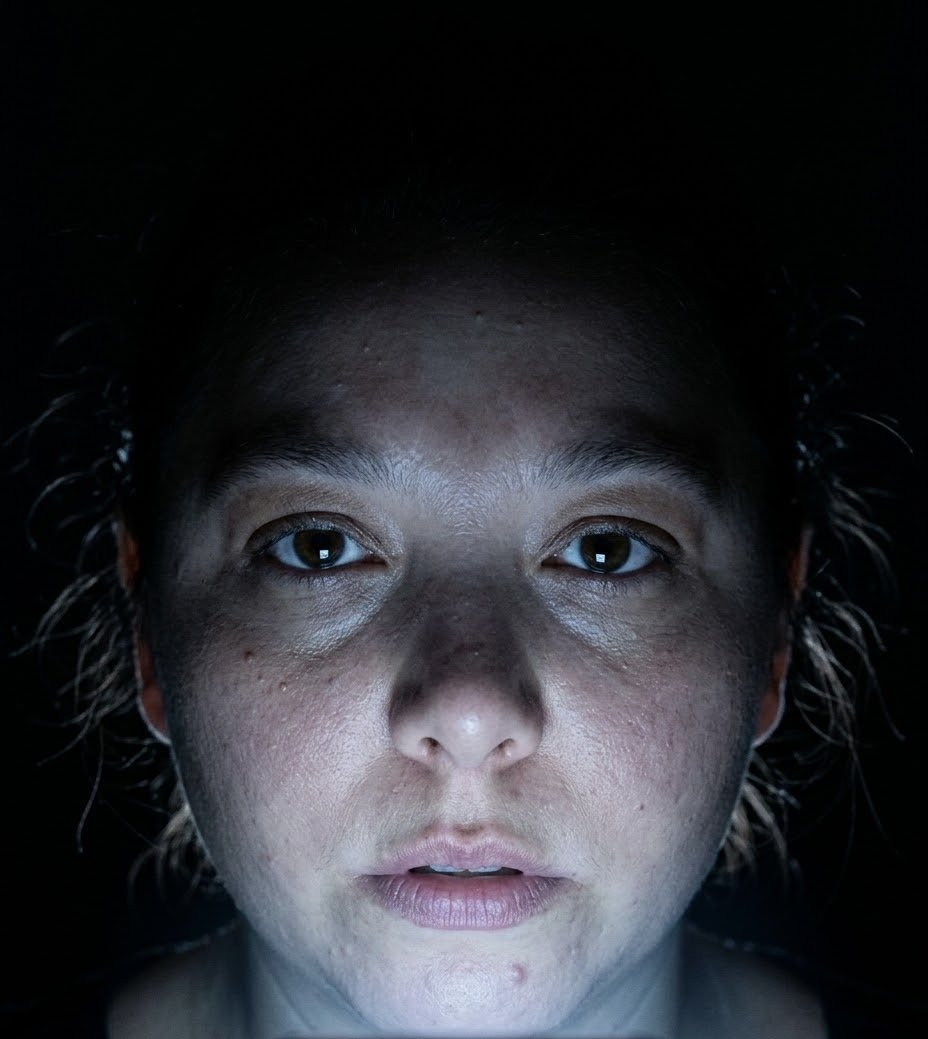
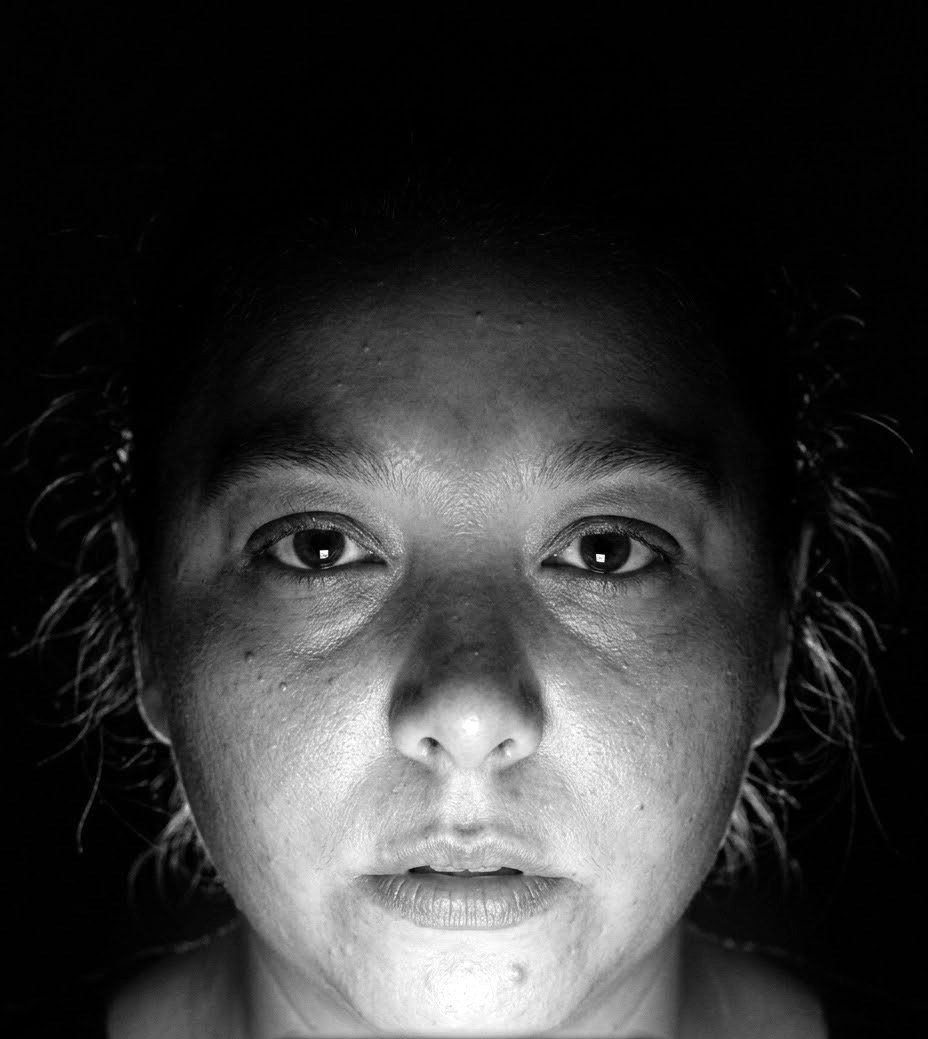
Lubunya ve YAKIN: yüksek çözünürlüklü fotoğraflar, açılış görseli olarak hazır
Claude-Session: https://claude.ai/code/session_01Q2s6RSdDjMY53bx39N1XY1

Changed region(s): [[0.1562, 0.4004, 0.8438, 1.0], [0.875, 0.616, 0.9062, 0.6468], [0.1875, 0.77, 0.2188, 0.8008]]

diff --git a/src/_data/graph.js b/src/_data/graph.js
@@ -12,7 +12,7 @@ export default function () {
   const extras = load("./extras.yaml");
   const projects = load("./projects.yaml");
   const soon = load("./soon.yaml");
-  const today = new Date().toISOString().slice(0, 10);
+  const today = process.env.SITE_TODAY || new Date().toISOString().slice(0, 10);
 
   const people = Object.fromEntries(
     Object.entries(db.people).map(([slug, p]) => [slug, { slug, ...p, bio: bios[slug] || null, works: [], teaches: [], projects: [] }])
